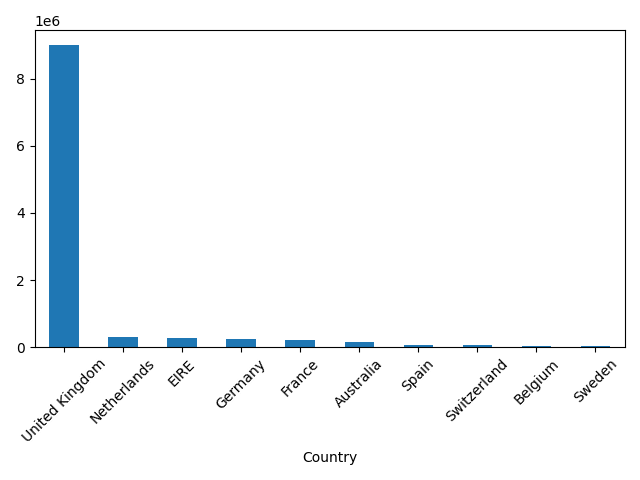
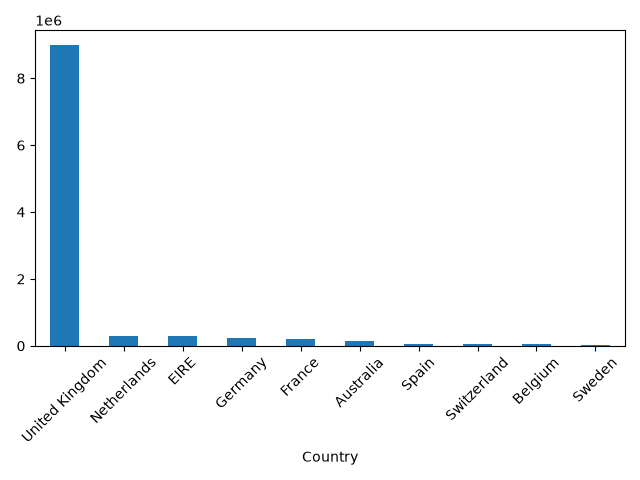
feat: update data processed by markdown-Huy

diff --git a/src/eda.py b/src/eda.py
@@ -5,13 +5,14 @@ import seaborn as sns
 
 # Mã dịch vụ/phí: không phải hàng hóa, loại khỏi bảng xếp hạng sản phẩm
 # nhưng vẫn giữ trong tổng doanh thu.
-SERVICE_CODES = ['DOT', 'POST', 'M', 'AMAZONFEE', 'm', 'DCGSSBOY', 'DCGSSGIRL', 'S', 'PADS', 'B']
+SERVICE_CODES = ['DOT', 'POST', 'M', 'm', 'AMAZONFEE', 'B']
 
 
 def load_cleaned_data(base_path):
     """Đọc cleaned_retail.csv thành DataFrame."""
+    data_path = Path(base_path) / 'data' / 'processed' / 'cleaned_retail.csv'
     return pd.read_csv(
-        base_path + '\\data\\processed\\cleaned_retail.csv',
+        data_path,
         dtype={'InvoiceNo': str},
     )
 
@@ -59,19 +60,37 @@ def main():
     print('Shape:', df.shape)
     print('Total revenue:', round(total_revenue(df), 2))
 
-    save_chart(revenue_by_month(df), base_path + '\\charts\\revenue_monthly_line.png',
-               kind='line', xlabel='YearMonth')
-    save_chart(revenue_by_country(df).head(10), base_path + '\\charts\\revenue_country.png',
-               xlabel='Country')
-    save_chart(top_products(df, metric='Quantity'), base_path + '\\charts\\top_products_quantity.png',
-               xlabel='StockCode')
-    save_chart(top_products(df, metric='Revenue'), base_path + '\\charts\\top_products_revenue.png',
-               xlabel='StockCode')
+    charts_path = Path(base_path) / 'charts'
+
+    save_chart(
+        revenue_by_month(df),
+        charts_path / 'revenue_monthly_line.png',
+        kind='line',
+        xlabel='YearMonth'
+    )
+
+    save_chart(
+        revenue_by_country(df).head(10),
+        charts_path / 'revenue_country.png',
+        xlabel='Country'
+    )
+
+    save_chart(
+        top_products(df, metric='Quantity'),
+        charts_path / 'top_products_quantity.png',
+        xlabel='StockCode'
+    )
+
+    save_chart(
+        top_products(df, metric='Revenue'),
+        charts_path / 'top_products_revenue.png',
+        xlabel='StockCode'
+    )
 
     plt.figure()
     sns.boxplot(x=order_values(df))
     plt.tight_layout()
-    plt.savefig(base_path + '\\charts\\order_value_boxplot.png')
+    plt.savefig(charts_path / 'order_value_bloxplot.png')
     plt.close()
 
 

diff --git a/src/reconcile.py b/src/reconcile.py
@@ -4,10 +4,10 @@ from pathlib import Path
 
 def load_inputs(base_path):
     """Đọc cleaned_retail.csv, customer_segments.csv, cancelled_retail.csv."""
-    proc = base_path + "\\data\\processed\\"
-    cr1 = pd.read_csv(proc + "cleaned_retail.csv", dtype={"InvoiceNo": str})
-    cs = pd.read_csv(proc + "customer_segments.csv", dtype={"CustomerID": str})
-    cr2 = pd.read_csv(proc + "cancelled_retail.csv")
+    proc = Path(base_path) / 'data' / 'processed' 
+    cr1 = pd.read_csv(proc / 'cleaned_retail.csv', dtype={"InvoiceNo": str})
+    cs = pd.read_csv(proc / 'customer_segments.csv', dtype={"CustomerID": str})
+    cr2 = pd.read_csv(proc / 'cancelled_retail.csv', dtype={"InvoiceNo": str})
     return cr1, cs, cr2
 
 
@@ -44,7 +44,18 @@ def main():
     print("Revenue totals (total, non-Guest, Guest):", revenue_totals(cr1))
     print("RFM Monetary total:", rfm_monetary_total(cs))
     print("Quality counts (dup, invalid, cancelled):", data_quality_counts(cr1, cr2))
-    revenue_by_segment(cr1, cs, base_path + '\\data\\processed\\revenue_by_segment.csv')
+    output_path = (
+    Path(base_path)
+        / 'data'
+        / 'processed'
+        / 'revenue_by_segment.csv'
+    )
+
+    revenue_by_segment(
+        cr1,
+        cs,
+        output_path
+    )
     print("Saved revenue_by_segment.csv")
 
 

diff --git a/reports/revenue_product_eda.md b/reports/revenue_product_eda.md
@@ -14,34 +14,55 @@ Nhóm khách hàng/sản phẩm nào tạo doanh thu cao? Xu hướng doanh thu 
 ## 3. Kết quả
 
 ### 3.1 Tổng doanh thu
-**£10,642,110.80** trên 524,878 giao dịch.
 
-Verified:
-- Tính lại độc lập từ Quantity × UnitPrice khớp tuyệt đối với cột Revenue.
-- Phần non-Guest: £8,887,208.89, khớp benchmark độc lập (£8.89M).
-- Chênh lệch với benchmark net £9.75M đúng bằng £894K tiền hoàn/hủy đã tách riêng
-  sang file cancelled.
-- Top 5 dòng lớn nhất đều là đơn sỉ hợp lệ, không có dòng lỗi phình tổng.
+| Chỉ số | Giá trị |
+|---|---:|
+| Valid transaction rows | 524,878 |
+| Total Revenue | £10,642,110.80 |
+| Non-Guest Revenue | £8,887,208.89 |
+| Guest Revenue | £1,754,901.91 |
 
-### 3.2 Xu hướng theo tháng
-- Đỉnh tháng 11/2011 (~£1.5M), gấp đôi mức trung bình các tháng còn lại: mùa mua sắm
-  Giáng sinh.
-- Đáy tháng 2/2011 và tháng 4/2011 (~£0.52M).
-- Tháng 12/2010 và 12/2011 không đầy đủ dữ liệu (dataset bắt đầu 12/2010, kết thúc
-  09/12/2011) nên không so sánh trực tiếp với các tháng đủ.
-- Xu hướng chung: đi ngang nửa đầu năm, tăng tốc từ tháng 9 đến tháng 11/2011.
+Kiểm tra consistency:
+
+- `Revenue = Quantity × UnitPrice` được tính lại độc lập và khớp với cột `Revenue`.
+- Non-Guest Revenue khớp với population dùng cho RFM.
+- Guest vẫn được giữ trong tổng Revenue nhưng không tham gia RFM.
+- Cancelled invoices được tách sang `cancelled_retail.csv` và không nằm trong sales revenue population.
+
+### 3.2 Xu hướng doanh thu theo tháng
+
+Các điểm đáng chú ý:
+
+- Revenue đạt đỉnh vào **11/2011**, khoảng **£1.5M**.
+- Revenue thấp hơn rõ rệt vào **02/2011** và **04/2011**, khoảng **£0.52M**.
+- Revenue tăng mạnh từ khoảng tháng 9 đến tháng 11/2011.
+- `12/2010` và `12/2011` là các tháng không đầy đủ dữ liệu nên không nên so sánh trực tiếp với các tháng đầy đủ.
+
+Chart:
+
+`charts/revenue_monthly_line.png`
 
 ### 3.3 Doanh thu theo quốc gia
 - United Kingdom: **84.6%** (~£9.0M). Business phụ thuộc gần như hoàn toàn vào thị trường nội địa Anh.
 - 9 nước tiếp theo (Netherlands, EIRE, Germany, France, Australia, Spain, Switzerland, Belgium, Sweden) cộng lại chỉ ~15%.
 
 ### 3.4 Top sản phẩm
-Đã loại 4 mã phí/dịch vụ khỏi xếp hạng (nhưng giữ trong tổng doanh thu):
+### 3.4 Top sản phẩm
 
-- DOT → DOTCOM POSTAGE (£206,249, đứng hạng 1 nếu không loại)
-- POST → POSTAGE
-- M → Manual
-- AMAZONFEE → AMAZON FEE
+Các mã dịch vụ hoặc bút toán không đại diện cho sản phẩm vật lý được loại khỏi bảng xếp hạng sản phẩm, nhưng vẫn được giữ trong tổng doanh thu:
+
+| StockCode | Description / Meaning | Xử lý |
+|---|---|---|
+| DOT | DOTCOM POSTAGE | Loại khỏi product ranking |
+| POST | POSTAGE | Loại khỏi product ranking |
+| M | Manual | Loại khỏi product ranking |
+| m | Manual | Loại khỏi product ranking |
+| AMAZONFEE | AMAZON FEE | Loại khỏi product ranking |
+| B | Adjust bad debt | Loại khỏi product ranking |
+
+Các mã `DCGSSBOY` và `DCGSSGIRL` được giữ lại vì chúng tương ứng với sản phẩm thật (`BOYS PARTY BAG` và `GIRLS PARTY BAG`).
+
+Service codes chỉ bị loại khỏi product ranking; chúng không bị xóa khỏi `cleaned_retail.csv` và vẫn được giữ khi tính tổng Revenue.
 
 Top 3 theo doanh thu: 22423 (£174,157), 23843 (£168,470), 85123A (£104,463).
 

diff --git a/reports/kpi_reconciliation.md b/reports/kpi_reconciliation.md
@@ -3,20 +3,19 @@
 ## 1. Mục đích
 Đối chiếu chéo các chỉ số cốt lõi giữa pipeline làm sạch (#16), phân tích doanh thu (#7) và phân khúc RFM (#8), đảm bảo không có mâu thuẫn nào không giải thích được trước khi làm notebook và report cuối (#22, #19).
 
-## 2. Bảng reconciliation
+## 2. KPI Reconciliation
 
-| Metric | Population | Nguồn | Giá trị | Kết luận |
-|---|---|---|---|---|
-| Total Revenue (cleaned) | 524,878 giao dịch hợp lệ | `cleaned_retail.csv` | £10,642,110.80 | Baseline |
-| Total Revenue (EDA) | cùng population | `eda.total_revenue()` | £10,642,110.80 | = baseline ✅ |
-| Revenue non-Guest | CustomerID != Guest | cleaned | £8,887,208.89 | = baseline − Guest |
-| Revenue Guest | CustomerID == Guest | cleaned | £1,754,901.91 | Chênh lệch chủ đích |
-| Total Monetary (RFM) | CustomerID hợp lệ | `customer_segments.csv` | £8,887,208.89 | = non-Guest ✅ |
-| Revenue theo segment (6 nhóm) | CustomerID hợp lệ | merge CustomerID | £8,887,208.89 | = non-Guest ✅ |
-| Dòng trùng trong file cleaned | — | cleaned | 0 | Đã loại ở pipeline (5,268 dòng, £21,740.98) |
-| Hóa đơn hủy | prefix C | `cancelled_retail.csv` | 9,251 hóa đơn | Khớp audit report |
-| Dòng invalid còn sót | Qty/Price <= 0 | cleaned | 0 | Đã loại ở pipeline (2,512 dòng) |
-
+| Metric | Population | Value | Expected relationship | Status |
+|---|---|---:|---|---|
+| Total Revenue | Valid sales | £10,642,110.80 | Baseline | Y |
+| EDA Revenue | Valid sales | £10,642,110.80 | = Total Revenue | Y |
+| Non-Guest Revenue | Identified customers | £8,887,208.89 | Total − Guest | Y |
+| Guest Revenue | Anonymous customers | £1,754,901.91 | Intentional difference | Y |
+| RFM Monetary | Identified customers | £8,887,208.89 | = Non-Guest Revenue | Y |
+| Revenue by RFM Segment | Identified customers | £8,887,208.89 | = RFM Monetary | Y |
+| Duplicate rows in cleaned data | Cleaned output | 0 | Expected 0 | Y |
+| Invalid Qty/Price rows | Cleaned output | 0 | Expected 0 | Y |
+| Cancelled rows | Cancelled dataset | 9,251 | Separated from valid sales | Y |
 Định nghĩa chung: `Revenue = Quantity × UnitPrice`, chỉ tính trên giao dịch bán hợp lệ (không phải hóa đơn hủy, Quantity và UnitPrice > 0).
 
 ## 3. Chênh lệch chủ đích
